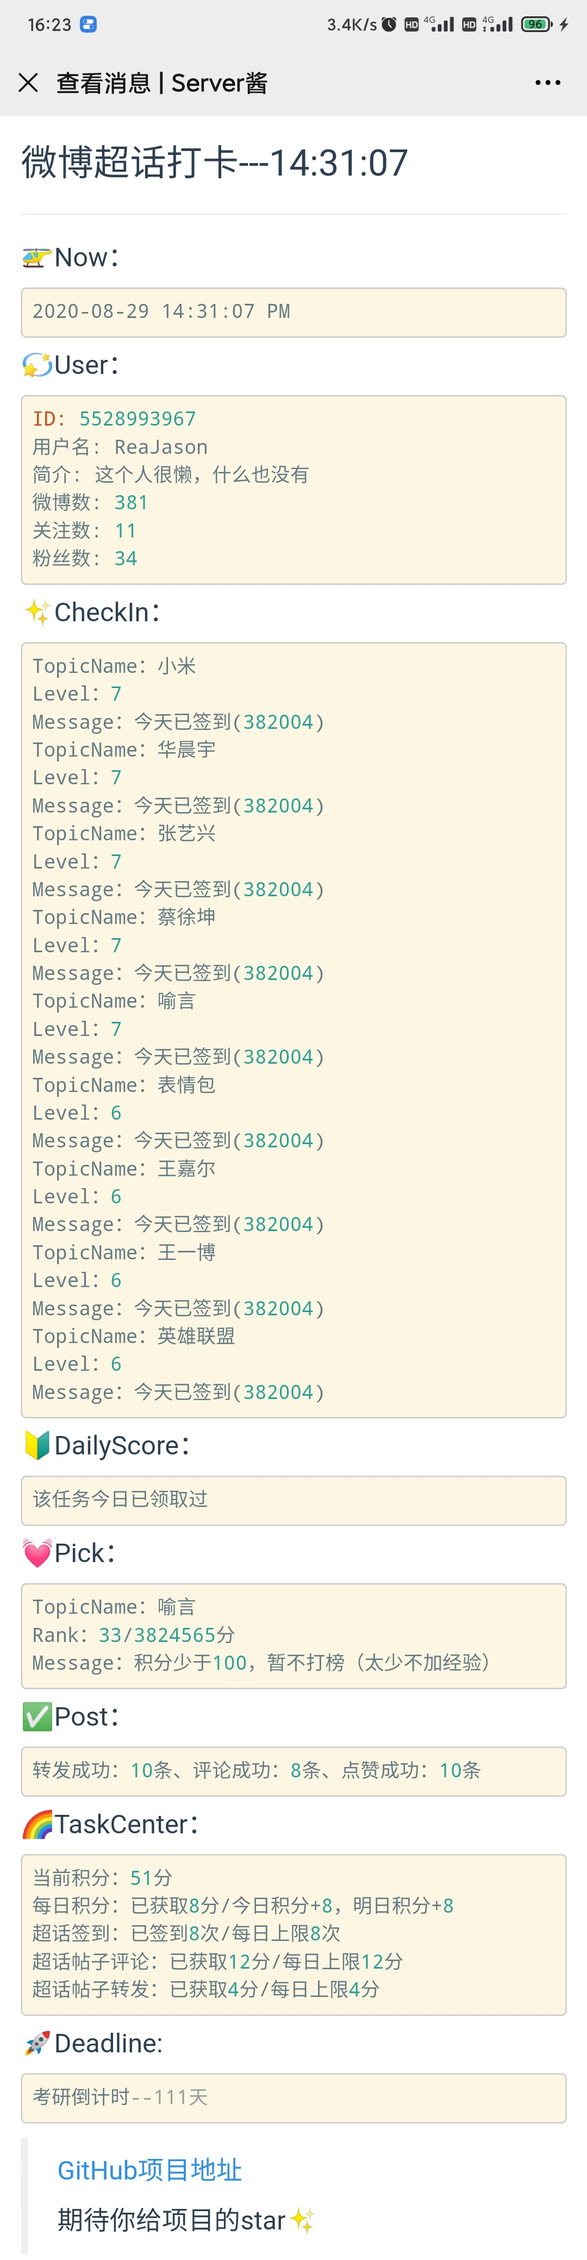
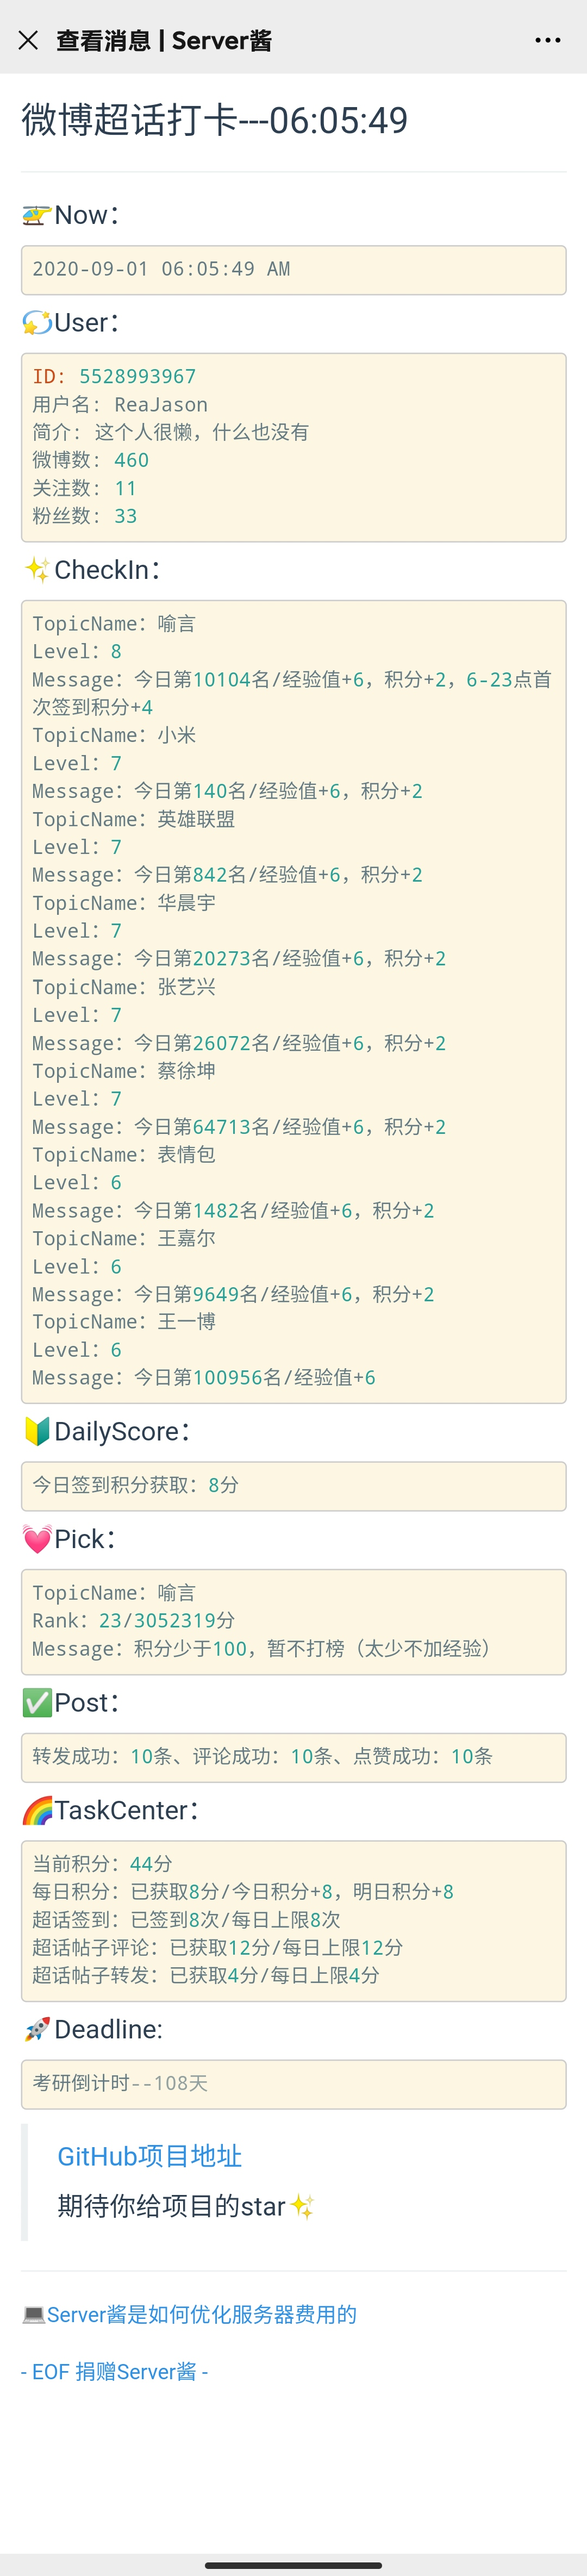
commit

diff --git a/README.md b/README.md
@@ -33,7 +33,7 @@ SCKEY  # 通过https://sc.ftqq.com/3.version获取
 ##### 2、Schedule
 
 ```python
-# 由于害怕未知情况下的微博api请求异常，因此设置早上6点和晚上10点中进行两次任务
+# 由于害怕未知情况下的微博api请求异常，因此设置早上6点和晚上10点中进行两次任务，有一定延迟
 # 五位数(空格分隔)分别为分钟、小时、天、月、一个星期的第几天
 # 国际时与北京时的查询网站：http://www.timebie.com/cn/universalbeijing.php
 
@@ -68,15 +68,15 @@ def daily_task(self, cookie, s, pick_name, sckey):
     self.log.append("```")
     self.get_day_score()
     self.log.append("```")
-    print("开始打榜")
-    self.log.append("#### 💓Pick：")
-    self.log.append("```")
-    self.get_score_bang([i for i in ch_list if i["title"] == pick_name])
-    self.log.append("```")
     print("喻言超话开始评论~~")
     self.log.append("#### ✅Post：")
     self.log.append("```")
     self.yu_yan([i["url"] for i in ch_list if i["title"] == "喻言"])
+    self.log.append("```")
+    print("开始打榜")
+    self.log.append("#### 💓Pick：")
+    self.log.append("```")
+    self.get_score_bang([i for i in ch_list if i["title"] == pick_name])
     self.log.append("```")
     print("查询任务中心")
     self.log.append("#### 🌈TaskCenter：")
@@ -107,6 +107,8 @@ def daily_task(self, cookie, s, pick_name, sckey):
 
 
 ### 🏍更新记录
+
+**🎨2020/09/01：优化每日任务顺序，先完成积分任务，最后进行超话打榜**
 
 **🏳2020/08/31：增加打榜382023账户异常的判断**
 
